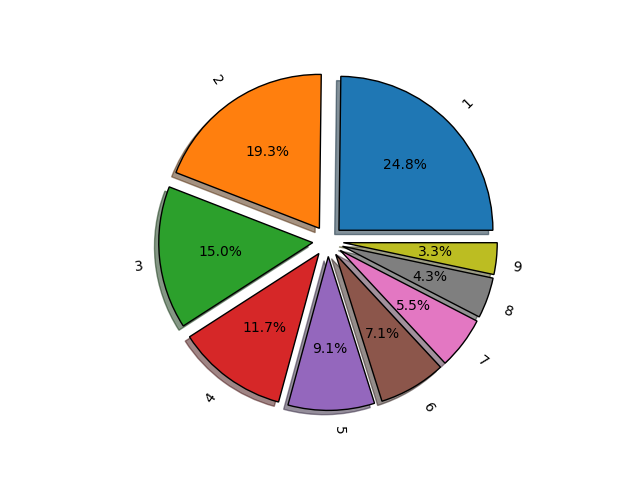
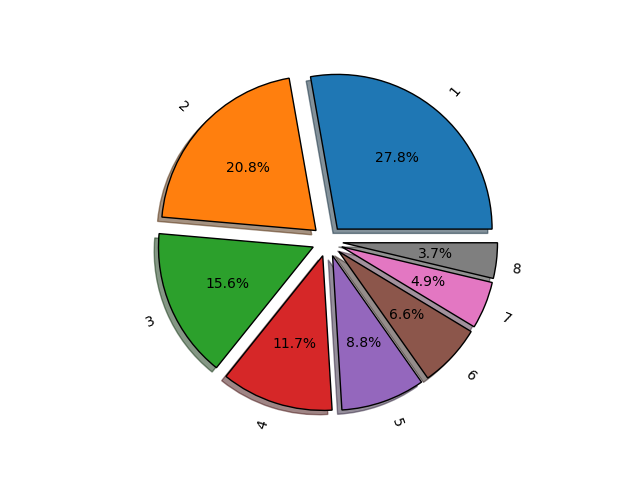
Изменение 7 - общее задание
Демонстрация измененного кода и графиков для 7 части общего задания ЛР3

diff --git a/main.py b/main.py
@@ -107,32 +107,32 @@
 # plt.figure()
 
 # # ИНДИВИДУАЛЬНАЯ ЧАСТЬ
-# ИЗМЕНЕНИЕ КОДА ДЛЯ ЧАСТИ 7 ОБЩЕГО ЗАДАНИЯ ЛР3 (2 вариант)
+# ИЗМЕНЕНИЕ КОДА ДЛЯ ЧАСТИ 7 ОБЩЕГО ЗАДАНИЯ ЛР3 (7 вариант)
 # # Контейнер расчета
 from sympy import *
 
 k, T, C, L = symbols("k C T L")
 # 1 способ - линейный способ
-C_ost = 50000
+C_ost = 70000
 Am_lst = []
 C_ost_lst = []
-for i in range(9):
+for i in range(8):
     Am = (C - L) / T
-    C_ost -= Am.subs({C: 50000, T: 9, L: 0})
-    Am_lst.append(round(Am.subs({C: 50000, T: 9, L: 0}), 2))
+    C_ost -= Am.subs({C: 70000, T: 8, L: 0})
+    Am_lst.append(round(Am.subs({C: 70000, T: 8, L: 0}), 2))
     C_ost_lst.append(round(C_ost, 2))
 print("Am_lst:", Am_lst)
 print("C_ost_lst:", C_ost_lst)
 
 # 2 способ - уменьшаемый остаток
 Aj = 0
-C_ost = 50000
+C_ost = 70000
 Am_lst_2 = []
 C_ost_lst_2 = []
-for i in range(9):
+for i in range(8):
     Am = k * 1 / T * (C - Aj)
-    C_ost -= Am.subs({C: 50000, T: 9, k: 2})
-    Am_lst_2.append(round(Am.subs({C: 50000, T: 9, k: 2}), 2))
+    C_ost -= Am.subs({C: 70000, T: 8, k: 2})
+    Am_lst_2.append(round(Am.subs({C: 70000, T: 8, k: 2}), 2))
     Aj += Am
     C_ost_lst_2.append(round(C_ost, 2))
 print("Am_lst_2:", Am_lst_2)
@@ -142,7 +142,7 @@ print("C_ost_lst_2:", C_ost_lst_2)
 import pandas as pd
 from pandas.core.internals.managers import ensure_np_dtype
 
-Y = range(1, 10)
+Y = range(1, 9)
 table1 = list(zip(Y, C_ost_lst, Am_lst))
 table2 = list(zip(Y, C_ost_lst_2, Am_lst_2))
 tfame = pd.DataFrame(table1, columns=(["Y", "C_ost_lst", "Am_lst"]))
@@ -162,8 +162,8 @@ plt.plot(tfame2["Y"], tfame2["C_ost_lst_2"], label="Am_2")
 plt.savefig("chart8.png")
 
 vals = Am_lst
-labels = [str(x) for x in range(1, 10)]
-explode = (0.1, 0.1, 0.1, 0.1, 0.1, 0.1, 0.1, 0.1, 0.1)
+labels = [str(x) for x in range(1, 9)]
+explode = (0.1, 0.1, 0.1, 0.1, 0.1, 0.1, 0.1, 0.1)
 flig, ax = plt.subplots()
 ax.pie(
     vals,
@@ -178,8 +178,8 @@ ax.axis("equal")
 plt.savefig("chart9.png")
 
 vals = Am_lst_2
-labels = [str(x) for x in range(1, 10)]
-explode = (0.1, 0.1, 0.1, 0.1, 0.1, 0.1, 0.1, 0.1, 0.1)
+labels = [str(x) for x in range(1, 9)]
+explode = (0.1, 0.1, 0.1, 0.1, 0.1, 0.1, 0.1, 0.1)
 fig, ax = plt.subplots()
 ax.pie(vals, labels=labels, autopct='%1.1f%%', shadow=True, explode=explode,  wedgeprops={'lw':1, 'ls':'-', 'edgecolor':'k'}, rotatelabels = True )
 ax.axis('equal')
